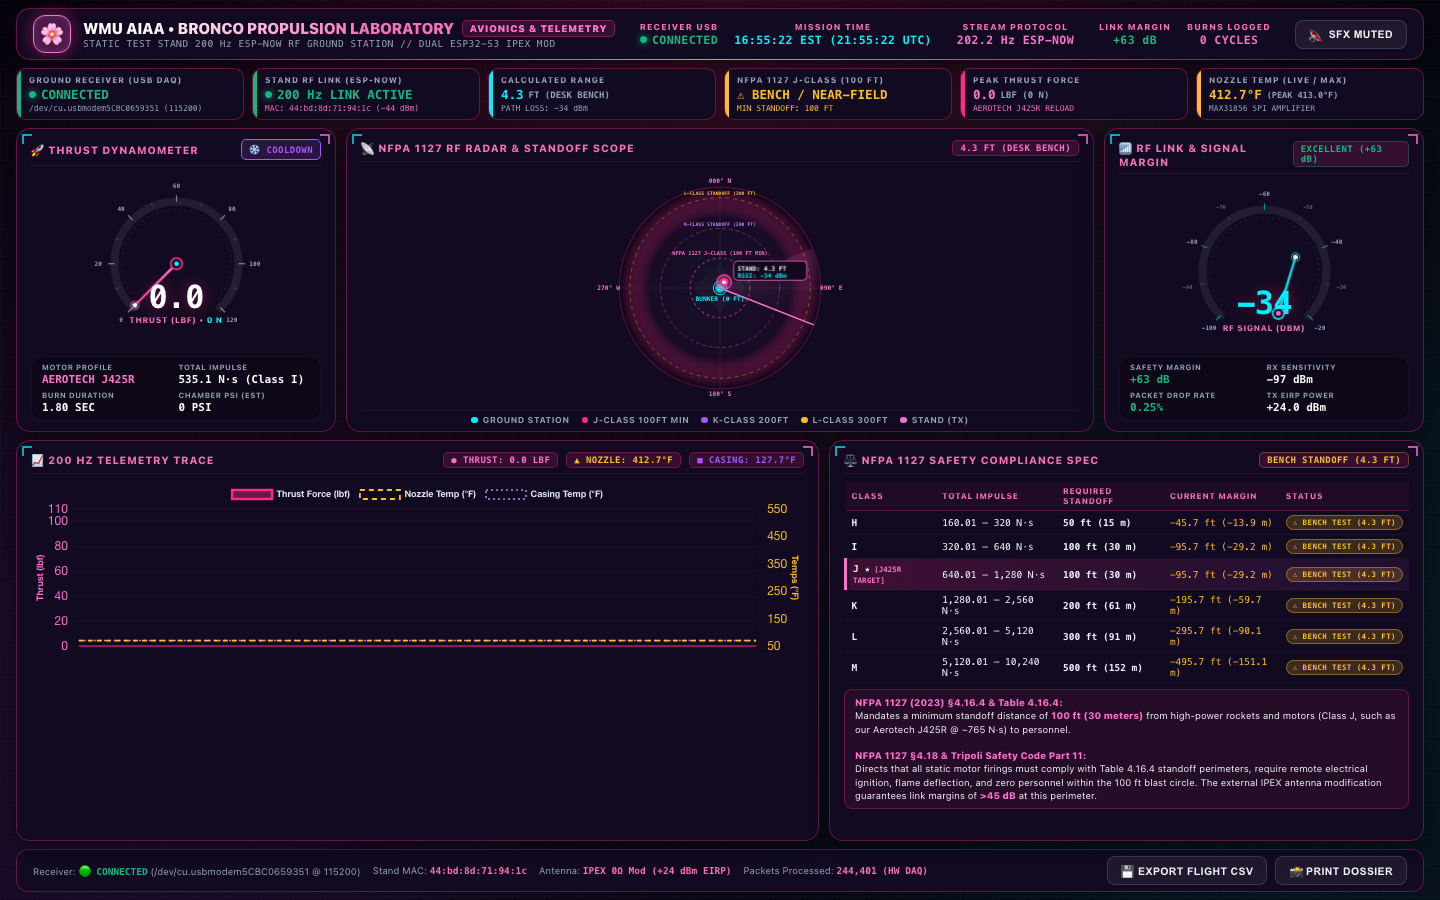
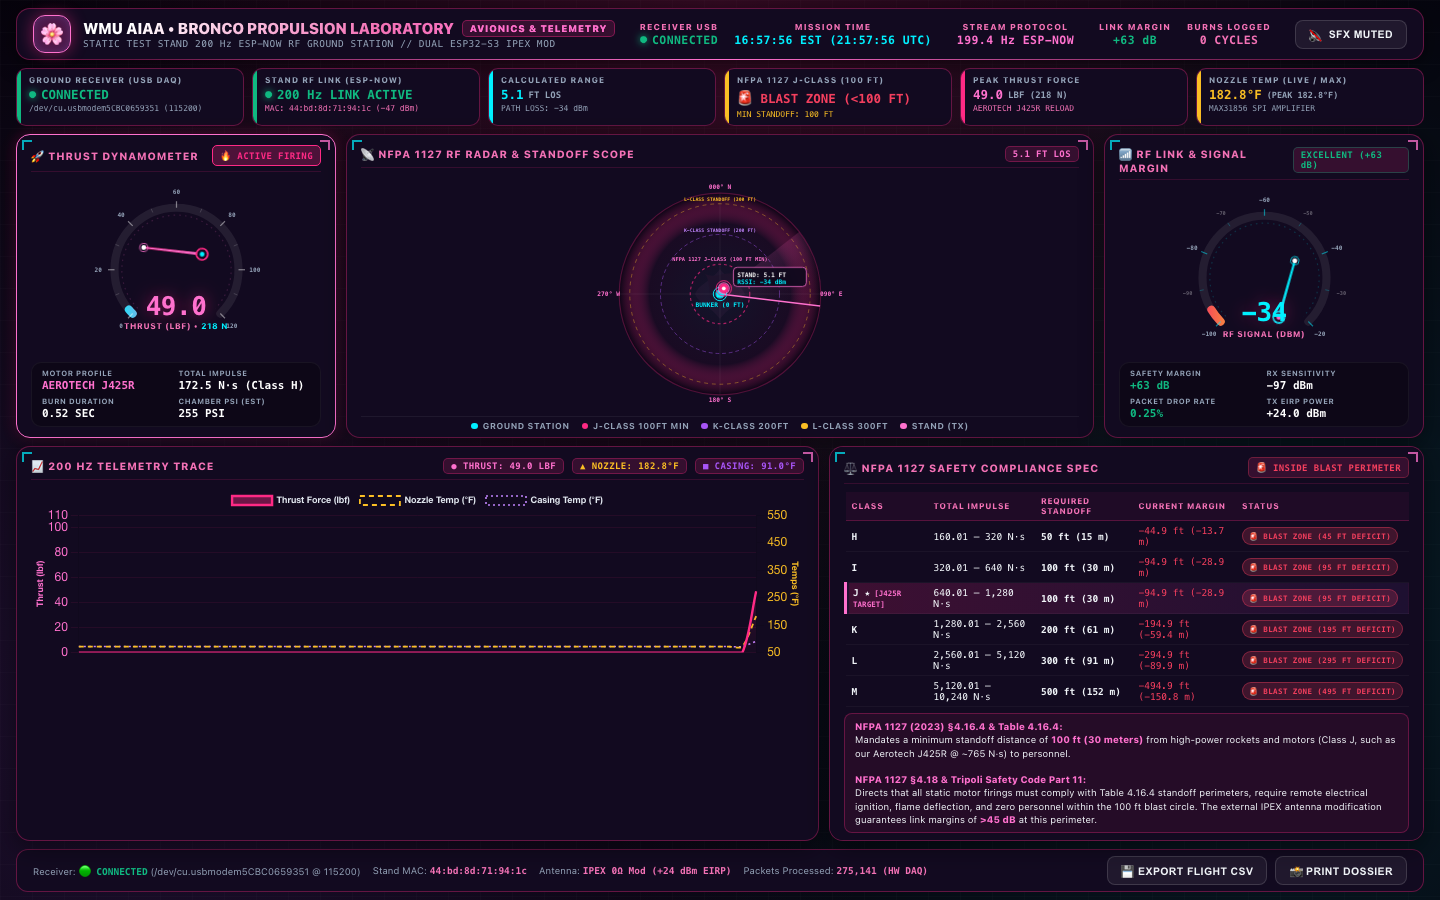
Adjust dial text size for complete pivot clearance and symmetry

diff --git a/web/index.html b/web/index.html
@@ -431,11 +431,11 @@
 
     .gauge-val-huge {
       font-family: var(--font-mono);
-      font-size: 32px;
+      font-size: 26px;
       font-weight: 900;
       color: var(--text-bright);
       line-height: 1;
-      letter-spacing: -1px;
+      letter-spacing: -0.5px;
       text-shadow: 0 0 16px rgba(255, 42, 133, 0.45);
       font-variant-numeric: tabular-nums;
     }
